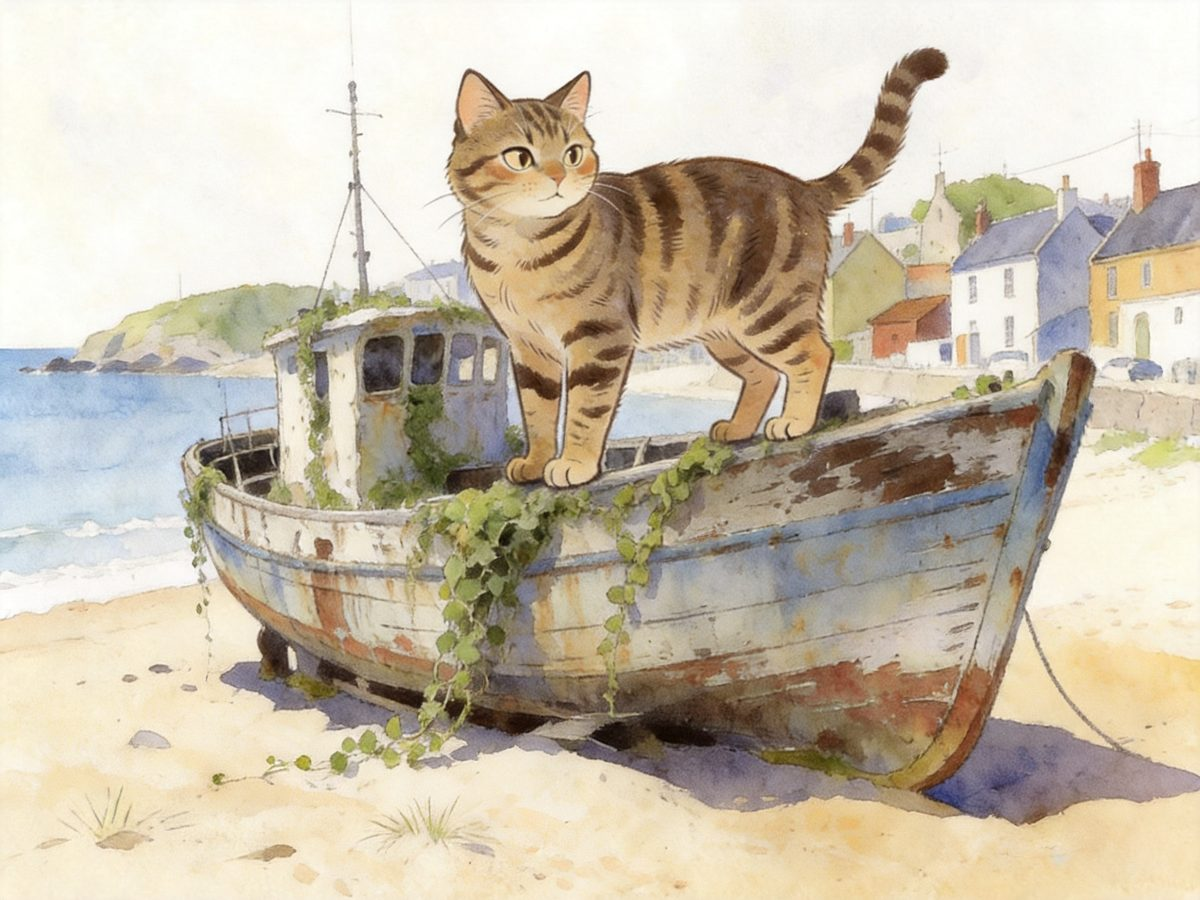
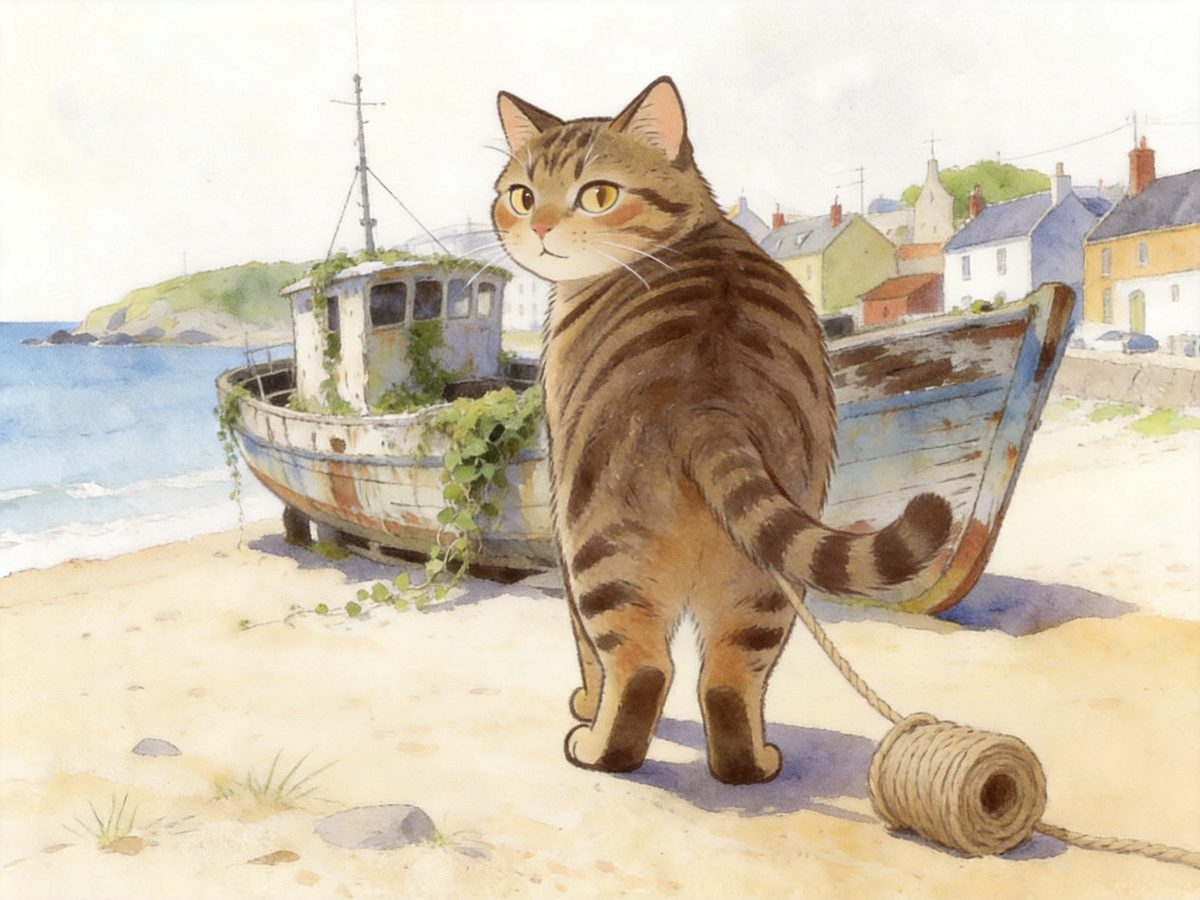
小屋 2.0:偷看它正在生活
- P0 生活照第三版·抓拍感:猫不看镜头,背影/侧身/低头做事(黑豆蹲在店门口
  数鱼币、土豆背身推木箱、爆米花扒着木箱偷看卸货)——从宣传海报变成
  "我刚好路过,看见它"
- P1 「它的小屋里」:每猫 2-3 件生活痕迹(七把串成一串的旧钥匙/写着「第八
  家」的小木牌),内容资产进 lib/secrets.ts HUT_ITEMS,不是背包是家
- P2 生活册「留下」小签:按当天地点派生小物(草叶上蹭下来的一撮毛),隔天
  出现不机械
- 去悬念感:陌生猫钩子改「小屋里还留着一些以前的东西」;秘密标题改
  「有些事情,它还没告诉别人」——猫不制造悬念,只留下痕迹

diff --git a/scripts/lifephotos.ts b/scripts/lifephotos.ts
@@ -6,28 +6,29 @@ import fs from "node:fs";
 import sharp from "sharp";
 import { generateImage } from "../lib/imagegen";
 
-// 每只猫的场景与动作:从 bio/人设里挑一个最像"它的日常"的瞬间
+// 每只猫的场景与动作瞬间(小屋 2.0):不是角色展示,是"我刚好路过,看见它"——
+// 猫不看镜头,背影/侧身/低头做事,像被偶然拍到的生活抓拍
 const MOMENTS: Record<string, { scene: string; action: string }> = {
-  "npc-juzi": { scene: "market", action: "它在集市的摊位之间踱步张望,一副什么都想掺一脚的样子" },
-  "npc-yantai": { scene: "lighthouse", action: "它安静地蹲在灯塔坡的草地上,望着远处的海" },
-  "npc-mantou": { scene: "market", action: "它眯着眼守在集市一角的小摊边,像刚蒸完一笼鱼糕在歇气" },
-  "npc-doudou": { scene: "boat", action: "它神气地站在搁浅旧渔船的船头,尾巴翘着,像在宣布这是它的秘密基地" },
-  "npc-xiaomei": { scene: "dock", action: "它站在木码头上,好奇地看着停泊的小船,脖子上的红铃铛清晰可见" },
-  "npc-laoguai": { scene: "pines", action: "它走在松林小径深处,微微回头,神情像知道很多旧事" },
-  "npc-tangyuan": { scene: "home", action: "它四脚朝天摊在窗边的软垫上睡得正香" },
-  "npc-qiuqiu": { scene: "market", action: "它站在集市摊位后面,神情认真,像在清点自己的货" },
-  "npc-wuya": { scene: "lighthouse", action: "它站在灯塔坡的高处眺望全岛,姿态挺拔警觉" },
-  "npc-nuomi": { scene: "reef", action: "它安静地蹲在浅滩边的礁石上,低头看水里的倒影出神" },
-  "npc-jiangjun": { scene: "dock", action: "它端端正正地坐在码头入口,像在值班,目光笔直" },
-  "npc-bingfen": { scene: "market", action: "它从集市的灯串下昂首走过,毛梳得一丝不苟" },
-  "npc-tudou": { scene: "market", action: "它在集市边上帮着搬一只木箱,埋头出力不吭声" },
-  "npc-lingdang": { scene: "farewell", action: "黄昏里它坐在码头尽头望着海,像正在轻轻唱歌" },
-  "npc-heidou": { scene: "market", action: "它站在集市一间小铺面门口来回打量,像在盘算第八家店开在哪" },
-  "npc-mianhua": { scene: "reef", action: "它蓬松的白毛被海风轻轻吹起,惬意地眯着眼蹲在礁石滩上" },
-  "npc-maoadao": { scene: "dock", action: "上了年纪的它安静地坐在码头边望海,背影有点驼,很安稳" },
-  "cat-meiqiu": { scene: "home", action: "它蜷在小屋窗边的软垫上,尾巴搭在鼻尖,睡得很沉" },
-  "cat-d3d8bbdd": { scene: "home", action: "它趴在小屋桌边的灯下,眼睛亮亮地盯着毛线球" },
-  "cat-f92c7c1c": { scene: "reef", action: "它在浅滩边小心地伸出爪子碰了碰潮水" },
+  "npc-juzi": { scene: "market", action: "它侧着身子从两个摊位之间挤过去,鼻子朝烤鱼摊的方向使劲嗅" },
+  "npc-yantai": { scene: "lighthouse", action: "它背对镜头蹲在灯塔坡的草地上,专注望着海面,尾巴安静地收在脚边" },
+  "npc-mantou": { scene: "market", action: "它低着头把摊子上的蒸笼布叼正,笼屉冒着热气,完全没注意有谁路过" },
+  "npc-doudou": { scene: "boat", action: "它正忙着把一小卷绳子往船头拖,屁股撅着使劲,背对镜头" },
+  "npc-xiaomei": { scene: "dock", action: "它侧身踮起前爪扒着木箱边沿,偷看船上正卸下来的货" },
+  "npc-laoguai": { scene: "pines", action: "只看得到它的背影,正慢慢走进小径深处,尾巴扫过路边的松针" },
+  "npc-tangyuan": { scene: "home", action: "它四脚朝天摊在窗边的软垫上睡得正香,完全没察觉有谁在看" },
+  "npc-qiuqiu": { scene: "market", action: "它低头认真拨着摊位上的货物,一样一样地清点,只露出侧脸" },
+  "npc-wuya": { scene: "lighthouse", action: "它的背影立在坡顶的高处,望着暮色里层层叠叠的屋顶" },
+  "npc-nuomi": { scene: "reef", action: "它低头盯着水洼里自己的倒影出神,一只爪子悬在水面上方" },
+  "npc-jiangjun": { scene: "dock", action: "它端坐在码头入口的侧面,目光追着一艘正在进港的小船" },
+  "npc-bingfen": { scene: "market", action: "它侧身从灯串下走过,回头望了一眼摊位上摆着的白瓷杯子" },
+  "npc-tudou": { scene: "market", action: "它背对镜头,正把一只木箱往摊位底下推,肩背绷得紧紧的" },
+  "npc-lingdang": { scene: "farewell", action: "它的背影坐在码头尽头,面向落日的海,喉咙里像正含着一段歌" },
+  "npc-heidou": { scene: "market", action: "它蹲在小店门口,低着头数面前摆着的几枚鱼币,数得很专心" },
+  "npc-mianhua": { scene: "reef", action: "它侧身蹲在礁石上眯眼吹风,蓬松的白毛被海风掀起一绺" },
+  "npc-maoadao": { scene: "dock", action: "它的背影坐在码头边,面前摊着一册翻开的簿子,背有点驼,很安稳" },
+  "cat-meiqiu": { scene: "home", action: "它蜷在小屋窗边的软垫上睡熟了,尾巴搭在鼻尖,呼吸把毛吹得一起一伏" },
+  "cat-d3d8bbdd": { scene: "home", action: "它背对镜头趴在桌边的灯下,前爪正拨弄一团滚远的毛线" },
+  "cat-f92c7c1c": { scene: "reef", action: "它侧身低着头,小心翼翼伸出一只爪子碰浅滩的潮水" },
 };
 
 const OUT_DIR = "public/cats-life";
@@ -51,9 +52,9 @@ async function main() {
     const raw = await generateImage({
       prompt:
         `把参考图1里的这只猫,自然地画进参考图2的场景里:${action}。` +
-        "这是它日常生活里的一个安静瞬间,像绘本里的一页。" +
+        "这是被偶然拍到的一个生活瞬间:猫不看镜头,正专注做自己的事,像小动物观察日志里的抓拍,不是摆拍海报。" +
         "猫的花色、五官、体型必须和参考图1完全一致;场景的配色、水彩纸纹必须和参考图2完全一致;" +
-        "猫是画面的绝对主角,离镜头较近,占画面高度约一半,神态清晰生动;环境作为背景衬托,光线与场景统一。" +
+        "猫是画面的绝对主角,离镜头较近,占画面高度约一半;环境作为背景衬托,光线与场景统一。" +
         "画面里只有这一只猫,无其他动物无人物无文字无水印,不要出现飞鸟和凭空漂浮的元素",
       size: "2304x1728",
       referenceImages: [

diff --git a/app/cats/[id]/page.tsx b/app/cats/[id]/page.tsx
@@ -4,6 +4,7 @@ import { after } from "next/server";
 import {
   CatCurrentMoment,
   CatHeroScene,
+  CatHutItems,
   CatLifeBook,
   CatMemoryBox,
   CatRelationship,
@@ -21,7 +22,7 @@ import { track } from "@vercel/analytics/server";
 import { LIFE_PHOTO_IDS, LIFE_PHOTO_PLACES } from "@/lib/cats-life";
 import { coinsLine, energyLine, marginNotes, sceneFor } from "@/lib/handbook";
 import { getLatestSummary } from "@/lib/queries";
-import { CAT_SECRETS, secretOfDay } from "@/lib/secrets";
+import { HUT_ITEMS, secretOfDay } from "@/lib/secrets";
 import { beijingHour, currentSegment, nowLine } from "@/lib/moments";
 import { catDayOf } from "@/lib/sim/lifecycle";
 import { factSummary } from "@/lib/sim/engine";
@@ -61,6 +62,19 @@ const HERO_FLAVORS = [
   "它挑了个晒得到太阳的位置。",
   "这是它常来的地方。",
 ];
+
+// 这个瞬间留下了什么(生活册页脚小物,按当天地点派生;猫不制造悬念,只留下痕迹)
+const LEFT_BEHIND: Record<string, string[]> = {
+  reef: ["半枚白色的小贝壳", "一颗被海水磨圆的玻璃珠", "爪印一排,朝着退潮的方向"],
+  lighthouse: ["一根灰色的羽毛", "一小段旧绳头", "草叶上蹭下来的一撮毛"],
+  market: ["一张皱巴巴的价签", "半张烤鱼的油纸", "摊子底下滚出来的小硬币"],
+  dock: ["一小截缆绳须", "一片剥落的船漆", "木板上晒干的一个湿爪印"],
+  pines: ["一颗完整的松果", "一片还带着露水的松针", "树皮上新添的一道磨爪印"],
+  home: ["窗台上的一小撮猫毛", "一团玩剩的毛线", "垫子上一个睡出来的窝"],
+  boat: ["一小块生锈的铁环", "一片藤蔓的叶子", "船板缝里抠出来的小螺壳"],
+  farewell: ["一枚黄昏色的小石子", "码头尽头的一个坐印"],
+  sailed: ["一枚黄昏色的小石子", "码头尽头的一个坐印"],
+};
 
 // 小屋门口的生活痕迹(按天轮换):小事情比大事件更有陪伴感
 const TRACE_LINES = [
@@ -202,13 +216,22 @@ export default async function CatPage({
     const meta = [main ? SEGMENT_CN[main.seg as Segment] : null, main?.loc, d.mood ? `心情${d.mood}` : null]
       .filter(Boolean)
       .join(" · ");
+    const sceneImg = main?.loc ? sceneFor(main.loc) : null;
+    // "留下":按地点小物池 + 天数轮换;隔天出现一次,别机械到每页都有
+    const sceneKey = sceneImg?.match(/\/scenes\/(\w+)\.jpg/)?.[1];
+    const pool = sceneKey ? LEFT_BEHIND[sceneKey] : undefined;
+    const leftBehind =
+      pool && hashSeed(d.day, "left-gate", cat.id) % 2 === 0
+        ? pick(mulberry32(hashSeed(d.day, "left", cat.id)), pool)
+        : null;
     return {
       id: d.id,
       day: d.day,
       mood: d.mood,
       content: d.content,
-      sceneImg: main?.loc ? sceneFor(main.loc) : null,
+      sceneImg,
       metaLine: meta || null,
+      leftBehind,
     };
   });
 
@@ -225,7 +248,7 @@ export default async function CatPage({
   const lifePhoto = LIFE_PHOTO_IDS.has(cat.id) ? `/cats-life/${cat.id}.jpg` : null;
   const bioFirstLine = (cat.bio ?? "").split(/(?<=[。!！?？])/)[0] || cat.bio || "";
   const secret = secretOfDay(cat.id, world.day);
-  const hasSecrets = Boolean(CAT_SECRETS[cat.id]?.length);
+  const hutItems = HUT_ITEMS[cat.id] ?? [];
   const tape = accentTape(cat.id);
 
   const friendCards: FriendCard[] = friends.map((f) => ({
@@ -285,7 +308,7 @@ export default async function CatPage({
           )}
           {viewerState === "stranger" && (
             <p className="mt-3 text-xs leading-relaxed text-ink-faint">
-              {hasSecrets && <>有猫说,它藏着一个秘密。</>}
+              {hutItems.length > 0 && <>小屋里还留着一些以前的东西。</>}
               <a href="#lifebook" className="text-sea-deep hover:text-brick">
                 去翻翻它的生活册 ↓
               </a>
@@ -296,6 +319,9 @@ export default async function CatPage({
           )}
         </div>
       </div>
+
+      {/* ============ 它的小屋里:生活痕迹,不是背包 ============ */}
+      <CatHutItems items={hutItems.slice(0, 3)} tape={tape} />
 
       {/* ============ 你们的交情(熟猫的入口) ============ */}
       {viewerState === "friend" && myCat && myRel && (

diff --git a/lib/secrets.ts b/lib/secrets.ts
@@ -31,3 +31,28 @@ export function secretOfDay(catId: string, day: number): string | null {
   if (!list?.length) return null;
   return pick(mulberry32(hashSeed(day, "secret", catId)), list);
 }
+
+// 小屋里的东西(小屋 2.0 P1):不是背包,是生活痕迹——看见这些,才觉得"这是它的家"。
+// 内容与 bio/秘密同源;新领养的猫没有条目就不渲染(它的小屋还空着,也是一种真实)。
+export const HUT_ITEMS: Record<string, string[]> = {
+  "npc-juzi": ["一个记满小道消息的小本子", "半袋没吃完的小鱼干", "一张不知道谁家的菜单"],
+  "npc-yantai": ["一只一直修不好的旧怀表", "一盒擦得发亮的工具", "半截备用灯芯"],
+  "npc-mantou": ["一叠洗得发白的蒸笼布", "一小罐海盐", "一本卷了角的点心账"],
+  "npc-doudou": ["一张画了一半的航海图", "一顶捡来的旧船帽", "三块形状可疑的'宝石'"],
+  "npc-xiaomei": ["一叠写废的稿纸叠成的小船", "一支咬秃了的铅笔", "一枚「主编」小徽章"],
+  "npc-laoguai": ["一枚谁也没见过的旧船票", "一摞落了灰的旧东西", "半张褪色的老地图"],
+  "npc-tangyuan": ["一只睡出形状的旧软垫", "不知道谁送的小铃铛", "一小罐晒过太阳的干草"],
+  "npc-qiuqiu": ["一本页角卷起的账本", "一杆黄铜小秤", "一串备用钥匙"],
+  "npc-wuya": ["一枚夜里捡到的亮片", "一条一直没戴惯的旧围巾", "一根屋顶上折的小树枝"],
+  "npc-nuomi": ["一盒磨短了的画笔", "一沓画满小岛的纸", "一小瓶洗笔的溪水"],
+  "npc-jiangjun": ["船长给它打的缆绳结", "一枚磨得发亮的旧哨子", "一本航海日志的残页"],
+  "npc-bingfen": ["一只倒扣着的白瓷小杯", "一张咖啡馆的铅笔草图", "一小包舍不得用的豆子"],
+  "npc-tudou": ["一小堆捡回来的圆石子", "一把用顺手的小刨子", "一段量东西用的旧绳"],
+  "npc-lingdang": ["取下来过一次的铃铛", "一页记着歌词的纸", "一条黄昏色的旧丝带"],
+  "npc-heidou": ["七把串成一串的旧钥匙", "一块写着「第八家」的小木牌", "一本翻旧的生意经"],
+  "npc-mianhua": ["别的猫落下没拿走的伞", "一罐给客人备着的小鱼干", "一条晒得蓬松的毯子"],
+  "npc-maoadao": ["一册写满名字的岛民簿", "一支磨秃了的毛笔", "一方缺了角的旧砚台"],
+  "cat-meiqiu": ["一枚发光贝壳的碎片", "一根用旧了的钓线", "一张压在石头下的纸"],
+  "cat-d3d8bbdd": ["一团滚到桌底的毛线", "一颗磨圆了的小石子"],
+  "cat-f92c7c1c": ["一片捡回来的大叶子", "一只装贝壳用的小木盒"],
+};

diff --git a/components/cat-profile.tsx b/components/cat-profile.tsx
@@ -94,6 +94,22 @@ export function CatCurrentMoment({
 
 export type SharedStory = { day: number; text: string } | null;
 
+/** 小屋里的东西:生活痕迹,不是背包——看见这些才觉得"这是它的家" */
+export function CatHutItems({ items, tape }: { items: string[]; tape: string }) {
+  if (items.length === 0) return null;
+  return (
+    <div className="note-slip relative mt-6 p-4" style={{ transform: "rotate(0.3deg)" }}>
+      <div className="absolute -top-2 left-10 h-[16px] w-[56px] rotate-[-2deg]" style={{ background: tape }} />
+      <p className="text-xs tracking-widest text-ink-faint">它的小屋里</p>
+      <ul className="font-diary mt-1.5 space-y-1 text-[14px] leading-relaxed text-ink">
+        {items.map((it) => (
+          <li key={it}>· {it}</li>
+        ))}
+      </ul>
+    </div>
+  );
+}
+
 /** 关系故事卡:关系不是状态,是经历——第一次见面、最近一次、现在 */
 export function RelationshipStoryCard({
   catName,
@@ -178,6 +194,8 @@ export type LifePage = {
   sceneImg: string | null;
   /** 观察窗口的三要素:时段 · 地点 · 状态(缺哪项就省哪项) */
   metaLine: string | null;
+  /** 这个瞬间留下了什么(小物件,按地点派生) */
+  leftBehind: string | null;
 };
 
 /** 生活册:每一天是一张照片卡——日期手写、照片贴上、一句话,想读全文再翻开 */
@@ -232,6 +250,12 @@ export function CatLifeBook({
                   </p>
                 </details>
               )}
+              {d.leftBehind && (
+                <p className="mt-2.5 text-[11px] text-ink-faint">
+                  <span className="mr-1.5 inline-block -rotate-2 border border-line px-1.5 py-0.5">留下</span>
+                  {d.leftBehind}
+                </p>
+              )}
             </article>
           );
         })}
@@ -270,7 +294,7 @@ export function CatMemoryBox({
       </ul>
       {secret && (
         <div className="mt-3 border-t border-line pt-2.5">
-          <p className="text-xs tracking-widest text-ink-faint">一个小秘密</p>
+          <p className="text-xs tracking-widest text-ink-faint">有些事情,它还没告诉别人</p>
           <p className="font-diary mt-1 text-[15px] leading-relaxed text-ink">{secret}</p>
         </div>
       )}
